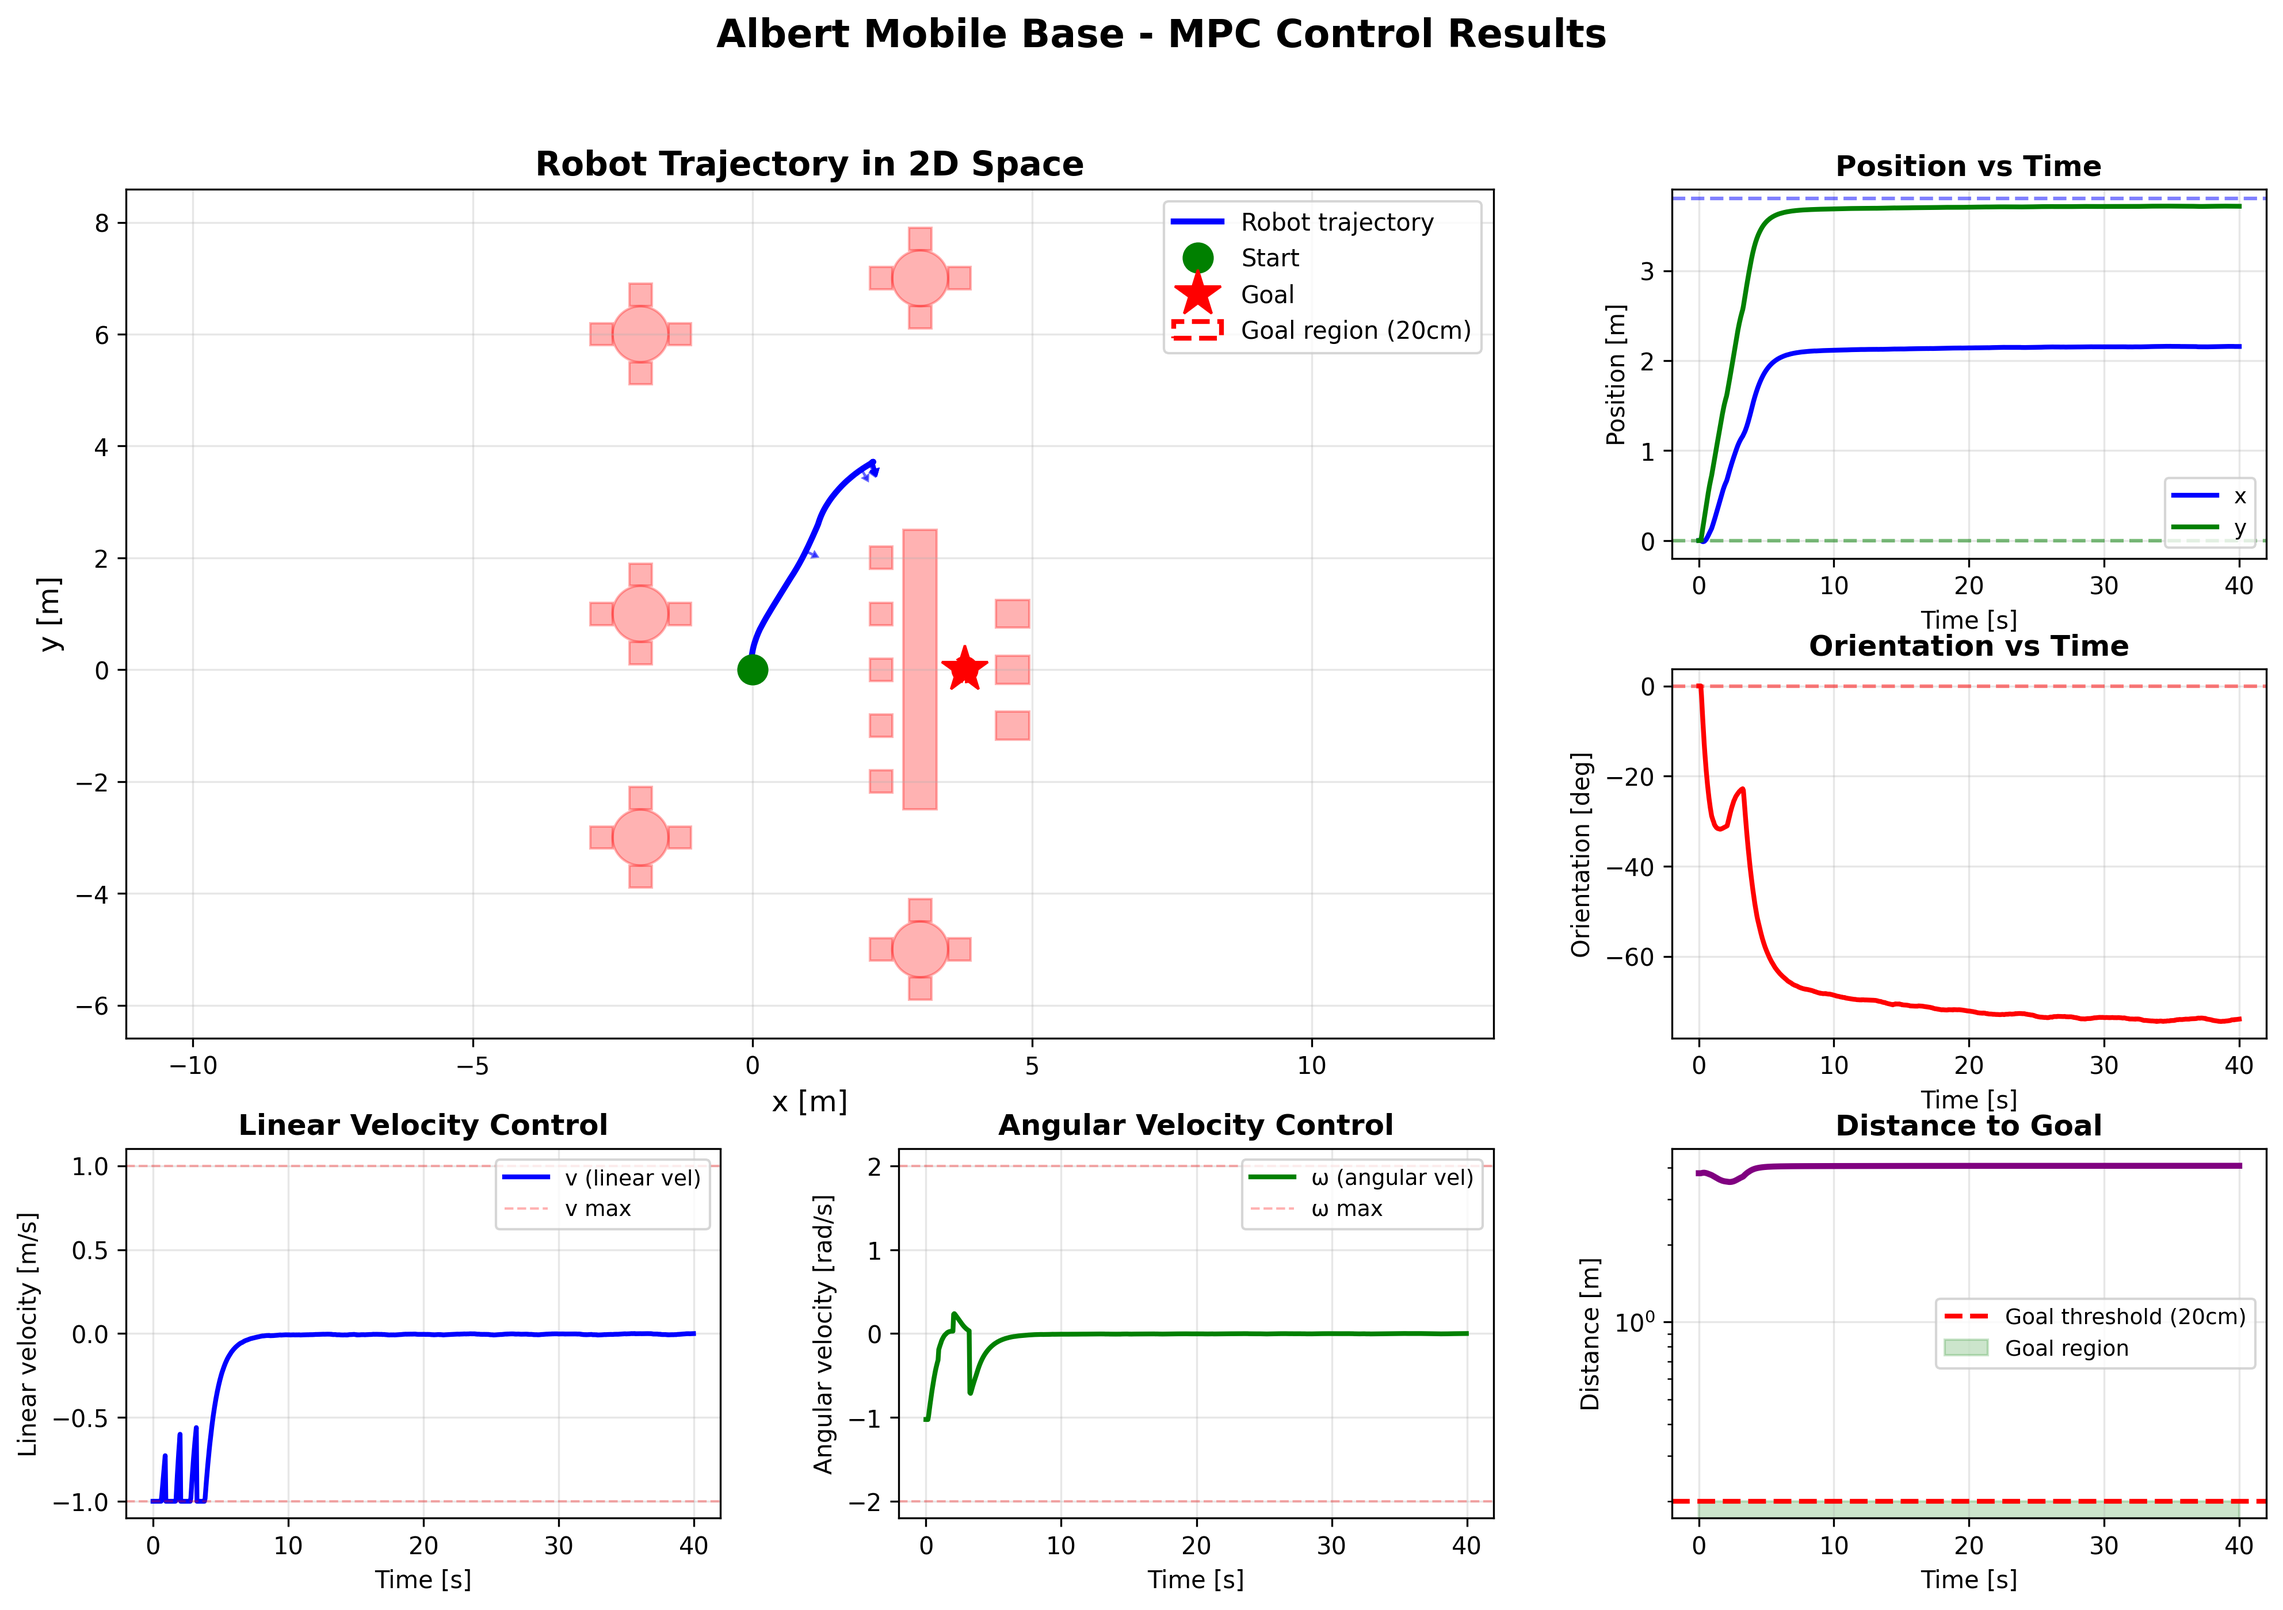
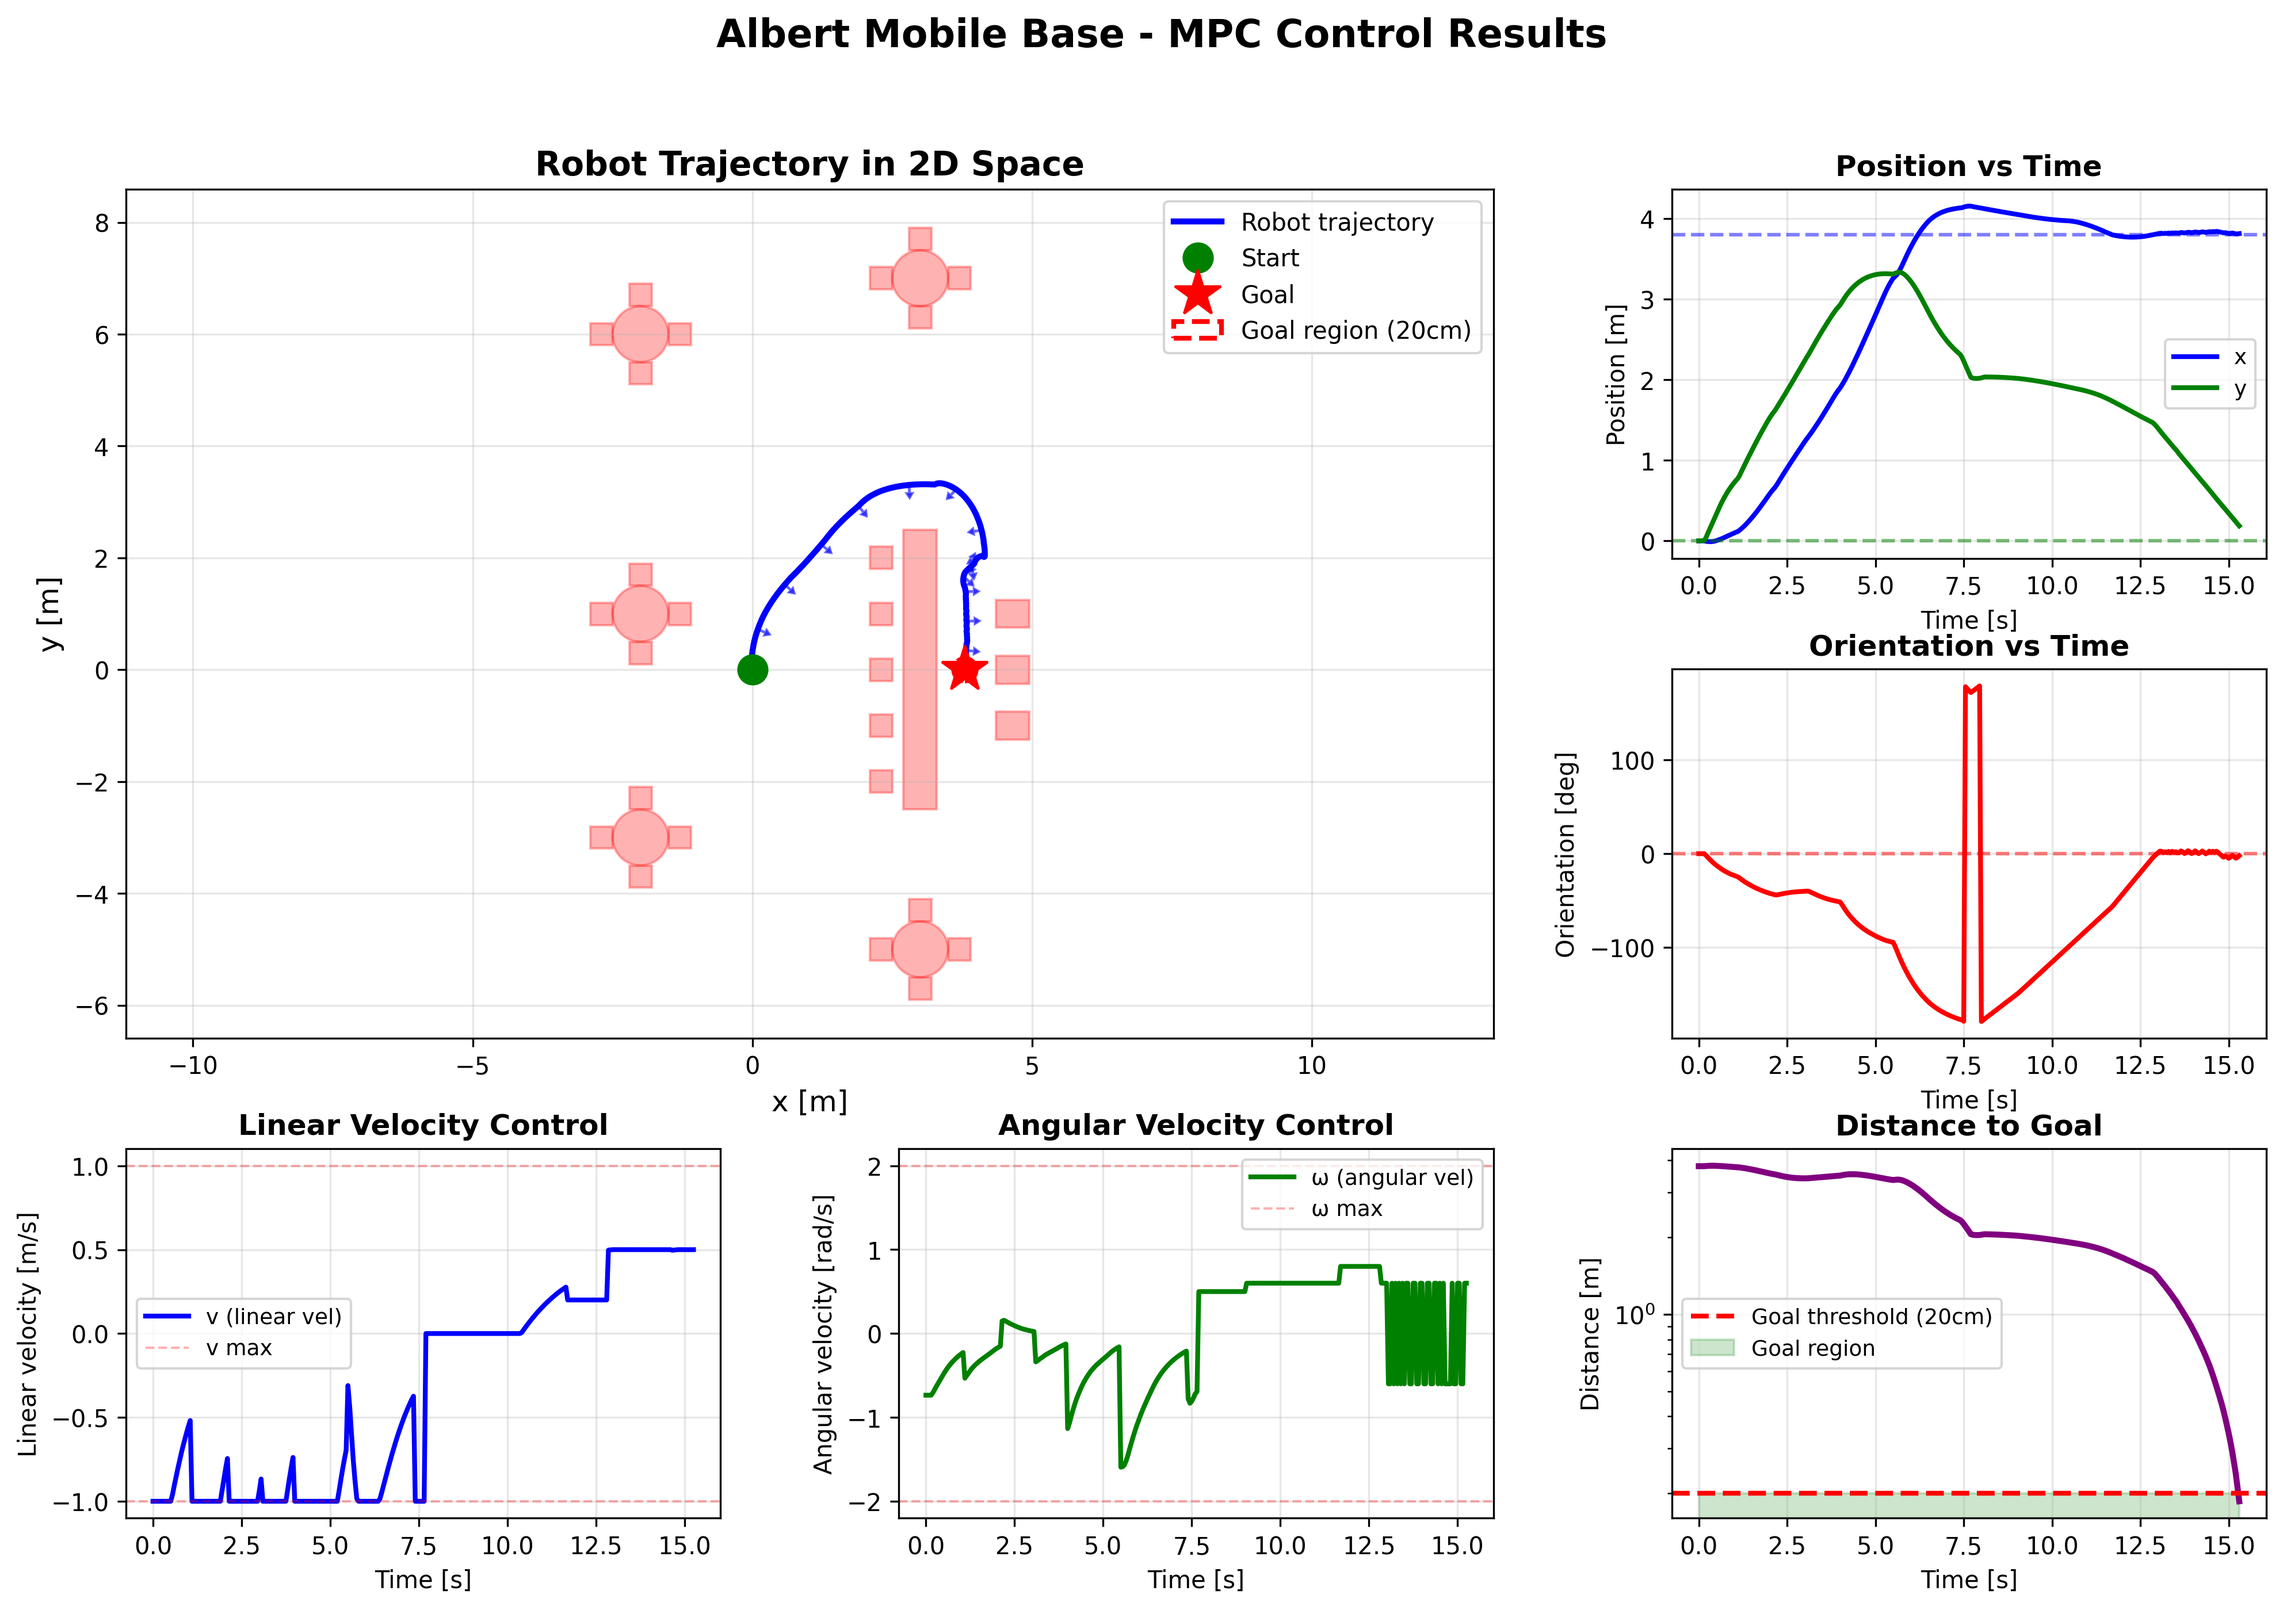
Improve MPC collision avoidance with dynamic obstacle filtering and recovery
- Add dynamic obstacle filtering: only nearby obstacles (max 8 within 2.5m)
  are used for hard constraints, reducing solver complexity
- Add hysteresis to recovery behavior to prevent oscillation when rotating
- Improve recovery behavior to allow forward motion in tight spaces
  when heading is roughly aligned with target
- Set use_soft_constraints=False for pure hard constraint behavior
- Robot successfully navigates tight corridor (1.05m) to reach goal

Key changes to collision_avoidance_mpc.py:
- _update_active_obstacles(): filters obstacles by distance
- solve(): rebuilds MPC when nearby obstacles change
- Recovery modes: EMERGENCY BACKUP (<5cm), TIGHT (5-15cm with forward),
  RECOVERY (15-40cm), OPEN (>40cm clearance)

diff --git a/albert_planning/planning/collision_avoidance_mpc.py b/albert_planning/planning/collision_avoidance_mpc.py
@@ -56,6 +56,7 @@ class CollisionAvoidanceMPC(BaseMPC):
     - Box obstacle avoidance (using bounding circles)
     - Optional soft constraints (barrier functions)
     - Configurable safety margins
+    - Dynamic obstacle filtering (only nearby obstacles)
 
     Args:
         dynamics: DifferentialDriveDynamics object
@@ -71,6 +72,8 @@ class CollisionAvoidanceMPC(BaseMPC):
         constraint_every_n_steps: Apply constraints every N steps (reduces computation)
         SOLVER_MAX_ITER: Max iterations for subsequent solves
         DO_WARM_START: Enable warm start
+        max_obstacles: Maximum number of obstacles to consider (nearest ones)
+        obstacle_horizon: Only consider obstacles within this distance (meters)
     """
 
     def __init__(self, dynamics, N: int, x_target: np.ndarray,
@@ -82,15 +85,20 @@ class CollisionAvoidanceMPC(BaseMPC):
                  soft_constraint_weight: float = 100.0,
                  constraint_every_n_steps: int = 1,
                  SOLVER_MAX_ITER: int = 10,
-                 DO_WARM_START: bool = True):
+                 DO_WARM_START: bool = True,
+                 max_obstacles: int = 8,
+                 obstacle_horizon: float = 2.5):
 
         # Store collision avoidance parameters before creating optimization problem
-        self.obstacles = obstacles if obstacles is not None else []
+        self.all_obstacles = obstacles if obstacles is not None else []  # Full list
+        self.obstacles = []  # Active (nearby) obstacles - set dynamically
         self.robot_radius = robot_radius
         self.safety_margin = safety_margin
         self.use_soft_constraints = use_soft_constraints
         self.soft_constraint_weight = soft_constraint_weight
         self.constraint_every_n_steps = constraint_every_n_steps
+        self.max_obstacles = max_obstacles
+        self.obstacle_horizon = obstacle_horizon
 
         # Initialize parent attributes manually (don't call super().__init__ as it
         # expects 4 return values from _create_optimization_problem, but we return 5)
@@ -102,6 +110,17 @@ class CollisionAvoidanceMPC(BaseMPC):
         self.max_iter = SOLVER_MAX_ITER
         self.warm_start = DO_WARM_START
 
+        # Current robot position (for obstacle filtering)
+        self.current_position = np.zeros(2)
+
+        # Hysteresis for recovery behavior
+        self.recovery_direction = 0  # 0=none, 1=left, -1=right
+        self.recovery_steps = 0
+        self.min_recovery_steps = 10  # Keep rotating same direction for at least N steps
+
+        # Filter obstacles based on initial target position
+        self._update_active_obstacles(x_target[:2])
+
         # Create optimization problem (returns 5 values including p_x_target)
         self.opti, self.X_var, self.U_var, self.p_x_init, self.p_x_target = self._create_optimization_problem()
 
@@ -109,10 +128,48 @@ class CollisionAvoidanceMPC(BaseMPC):
         print(f"  Robot radius: {robot_radius}m")
         print(f"  Safety margin: {safety_margin}m")
         print(f"  Total clearance: {robot_radius + safety_margin}m")
-        print(f"  Number of obstacles: {len(self.obstacles)}")
+        print(f"  Total obstacles: {len(self.all_obstacles)}")
+        print(f"  Active obstacles: {len(self.obstacles)} (max={max_obstacles}, horizon={obstacle_horizon}m)")
         print(f"  Soft constraints: {use_soft_constraints}")
         if use_soft_constraints:
             print(f"  Soft constraint weight: {soft_constraint_weight}")
+
+    def _update_active_obstacles(self, position: np.ndarray) -> bool:
+        """
+        Update active obstacles based on current position.
+
+        Only obstacles within obstacle_horizon distance are considered.
+        Returns True if obstacles changed (requires problem rebuild).
+        """
+        # Calculate distance to each obstacle
+        obstacle_distances = []
+        for obs in self.all_obstacles:
+            if obs.type == 'circle':
+                dist = np.linalg.norm(position - obs.position) - obs.radius
+            else:  # Box
+                half_x = obs.size[0] / 2.0
+                half_y = obs.size[1] / 2.0
+                dx = abs(position[0] - obs.position[0]) - half_x
+                dy = abs(position[1] - obs.position[1]) - half_y
+                dist = np.sqrt(max(dx, 0)**2 + max(dy, 0)**2)
+            obstacle_distances.append((dist, obs))
+
+        # Sort by distance and filter
+        obstacle_distances.sort(key=lambda x: x[0])
+
+        # Select nearest obstacles within horizon
+        new_obstacles = []
+        for dist, obs in obstacle_distances:
+            if dist <= self.obstacle_horizon and len(new_obstacles) < self.max_obstacles:
+                new_obstacles.append(obs)
+
+        # Check if obstacles changed
+        old_names = set(obs.name for obs in self.obstacles)
+        new_names = set(obs.name for obs in new_obstacles)
+        changed = old_names != new_names
+
+        self.obstacles = new_obstacles
+        return changed
 
     def _create_optimization_problem(self):
         """
@@ -330,6 +387,7 @@ class CollisionAvoidanceMPC(BaseMPC):
         Solve MPC problem for current state with dynamic target.
 
         Overrides parent method to set the target parameter before solving.
+        Dynamically updates active obstacles based on robot position.
 
         Args:
             x_init: current state [x, y, theta]
@@ -340,6 +398,14 @@ class CollisionAvoidanceMPC(BaseMPC):
             x_traj: predicted trajectory
             theta_next: next orientation
         """
+        # Update current position
+        self.current_position = x_init[:2]
+
+        # Check if we need to rebuild optimization problem (obstacles changed)
+        if self._update_active_obstacles(x_init[:2]):
+            print(f"  Rebuilding MPC with {len(self.obstacles)} nearby obstacles")
+            self.opti, self.X_var, self.U_var, self.p_x_init, self.p_x_target = self._create_optimization_problem()
+
         # Set target parameter before solving
         self.opti.set_value(self.p_x_target, self.x_target[:2])
 
@@ -362,6 +428,10 @@ class CollisionAvoidanceMPC(BaseMPC):
             u_opt = sol.value(self.U_var[0])
             x_next = sol.value(self.X_var[1])
 
+            # Reset recovery state on success
+            self.recovery_direction = 0
+            self.recovery_steps = 0
+
             # Extract full trajectory
             x_traj = np.zeros((3, self.N + 1))
             for k in range(self.N + 1):
@@ -370,8 +440,66 @@ class CollisionAvoidanceMPC(BaseMPC):
             return u_opt, x_next, x_traj, x_next[2]
 
         except Exception as e:
-            print(f"MPC solver failed: {e}")
-            u_safe = np.zeros(2)
+            # MPC failed - execute recovery maneuver with hysteresis
+            print(f"MPC FAILED: {str(e)[:80]}")
+
+            # Check distance to nearest obstacle
+            min_dist, obs_name = self.get_min_obstacle_distance(x_init)
+            clearance = min_dist - self.robot_radius
+
+            # Calculate heading error to target
+            dx = self.x_target[0] - x_init[0]
+            dy = self.x_target[1] - x_init[1]
+            desired_heading = np.arctan2(dy, dx) + np.pi / 2  # Albert's facing direction offset
+            heading_error = desired_heading - x_init[2]
+            heading_error = np.arctan2(np.sin(heading_error), np.cos(heading_error))
+
+            if clearance < 0.05:
+                # EMERGENCY: Very close to obstacle - backup!
+                print(f"  EMERGENCY BACKUP: clearance={clearance:.2f}m to {obs_name}")
+                u_safe = np.array([-0.5, 0.0])  # Reverse
+                self.recovery_direction = 0  # Reset hysteresis on backup
+                self.recovery_steps = 0
+            elif clearance < 0.15:
+                # Close to obstacle - rotate with hysteresis to avoid oscillation
+                self.recovery_steps += 1
+
+                # Decide direction: keep previous if in hysteresis window
+                if self.recovery_direction != 0 and self.recovery_steps < self.min_recovery_steps:
+                    # Keep rotating in committed direction
+                    rotate_dir = self.recovery_direction
+                else:
+                    # Choose new direction based on heading error
+                    rotate_dir = 1.0 if heading_error > 0 else -1.0
+                    self.recovery_direction = rotate_dir
+                    self.recovery_steps = 0
+
+                # Allow slow forward motion while rotating if aligned with target
+                if abs(heading_error) < 1.0:  # Less than ~60 degrees off
+                    forward_v = 0.2  # Slow forward
+                    print(f"  TIGHT: clearance={clearance:.2f}m, creeping forward + rotating {'left' if rotate_dir > 0 else 'right'}")
+                else:
+                    forward_v = 0.0
+                    print(f"  AVOIDING: clearance={clearance:.2f}m, rotating {'left' if rotate_dir > 0 else 'right'}")
+                u_safe = np.array([forward_v, rotate_dir * 0.8])
+            elif clearance < 0.4:
+                # Some clearance - move forward with rotation toward target
+                rotate_dir = 1.0 if heading_error > 0 else -1.0
+                # Scale forward speed based on how aligned we are
+                forward_v = 0.5 * max(0.0, np.cos(heading_error))
+                print(f"  RECOVERY: v={forward_v:.2f}, rotating toward target (err={np.degrees(heading_error):.1f}°)")
+                u_safe = np.array([forward_v, rotate_dir * 0.6])
+                self.recovery_direction = 0
+                self.recovery_steps = 0
+            else:
+                # Good clearance - move toward target
+                rotate_dir = 1.0 if heading_error > 0 else -1.0
+                forward_v = 0.8 * max(0.0, np.cos(heading_error))
+                print(f"  OPEN: v={forward_v:.2f}, heading toward target (err={np.degrees(heading_error):.1f}°)")
+                u_safe = np.array([forward_v, rotate_dir * 0.5])
+                self.recovery_direction = 0
+                self.recovery_steps = 0
+
             x_traj = np.tile(x_init.reshape(-1, 1), (1, self.N + 1))
             return u_safe, x_init, x_traj, x_init[2]
 
@@ -379,20 +507,22 @@ class CollisionAvoidanceMPC(BaseMPC):
         """
         Compute minimum distance from robot position to any obstacle.
 
+        Uses ALL obstacles (not just active ones) for safety.
+
         Args:
             x: Robot state [x, y, theta]
 
         Returns:
             Tuple of (min_distance, obstacle_name)
         """
-        if len(self.obstacles) == 0:
+        if len(self.all_obstacles) == 0:
             return float('inf'), ""
 
         robot_pos = x[:2]
         min_dist = float('inf')
         min_obs_name = ""
 
-        for obs in self.obstacles:
+        for obs in self.all_obstacles:
             if obs.type == 'circle':
                 dist = np.linalg.norm(robot_pos - obs.position) - obs.radius
             else:  # Box

diff --git a/albert_planning/planning/simulation.py b/albert_planning/planning/simulation.py
@@ -505,7 +505,7 @@ if __name__ == "__main__":
             enable_collision_avoidance=True,
             robot_radius=0.35,
             safety_margin=0.05,  # Reduced to fit through tight corridor (1.05m wide)
-            use_soft_constraints=True,  # Soft constraints allow some flexibility in tight spaces
+            use_soft_constraints=False,  # HARD constraints only - must not collide!
             soft_constraint_weight=50.0
         )
 
